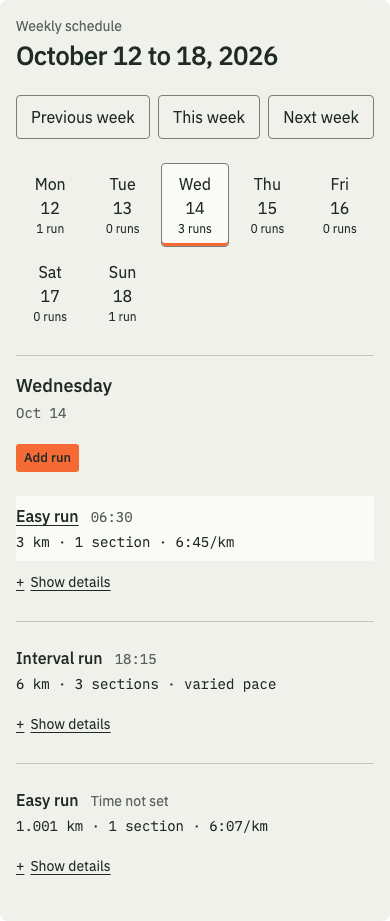
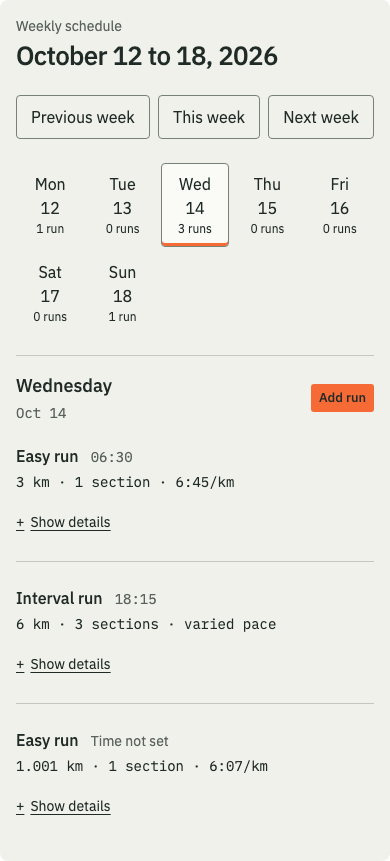
chore(design): align phone add action beside the date

diff --git a/docs/design/weekly-layout-prototype.html b/docs/design/weekly-layout-prototype.html
@@ -152,7 +152,13 @@ dialog code { overflow-wrap: anywhere; }
 .font-credits pre { white-space: pre-wrap; overflow-wrap: anywhere; }
 @container screen (max-width: 560px) {
   .specimen h1 { font-size: 26px; }
-  .day { grid-template-columns: minmax(0, 1fr); gap: 12px; padding-block: 16px; }
+  .day, .focus-layout .day { grid-template-columns: minmax(0, 1fr) auto; gap: 4px 16px; padding-block: 16px; }
+  .day-heading { display: contents; }
+  .day-heading h2 { grid-column: 1; grid-row: 1; }
+  .day-heading .date { grid-column: 1; grid-row: 2; }
+  .day-add, .day-content > [data-add] { grid-column: 2; grid-row: 1 / span 2; align-self: center; margin: 0; }
+  .day-content { grid-column: 1 / -1; grid-row: 3; margin-top: 8px; }
+  .day-content:has(> [data-add]) { display: contents; }
   .focus-layout { grid-template-columns: minmax(0, 1fr); gap: 20px; }
   .day-index { grid-template-columns: repeat(auto-fit, minmax(60px, 1fr)); gap: 4px; }
   .day-index button { display: block; text-align: center; padding: 8px 2px; }
@@ -186,7 +192,7 @@ dialog code { overflow-wrap: anywhere; }
       <li>Click or tap a run summary to open its edit pane, or focus it and press Enter. There is no separate Edit button. Keep time, run type, distance, section count, and shared or varied pace visible while details are closed.</li>
       <li>Each run opens independently with Enter, Space, or touch. Sections stay ordered, followed by separate personal and trainer notes. Native disclosure state is announced to assistive technology.</li>
       <li>Show details stays separate from opening the editor. Closing the pane returns focus to its run and keeps the week and disclosures in place. Week navigation and reload reset disclosures. No saved disclosure preference.</li>
-      <li>Add run replaces the empty-day placeholder. On a populated day, it sits below the day and date. It opens the create pane on that date. Adding a preview run updates the schedule and moves Add run below the date when the day becomes populated. A successful save shows the saved date’s week. “This week” uses Montreal’s calendar date. The pane's complete form and recovery presentations are a later design decision.</li>
+      <li>On phones, Add run sits to the right of the day/date heading on every day. On wider screens, it replaces the empty-day placeholder or sits below the date on populated days. It opens the create pane on that date. Adding a preview run updates the schedule. A successful save shows the saved date’s week. “This week” uses Montreal’s calendar date. The pane's complete form and recovery presentations are a later design decision.</li>
       <li>For the selected-day variant, select today within the current week, otherwise Monday. Changing a day keeps focus on its selector; week changes keep focus on the week control. Closing the pane keeps the selected day. Saving selects the saved run’s day so the result is visible.</li>
       <li>Put week navigation above the schedule so a busy week does not push it out of reach. Loading and failures hide old runs, keep week navigation available, and offer retry. Retry moves focus to the week heading.</li>
     </ul>

diff --git a/docs/design/weekly-layout-review.md b/docs/design/weekly-layout-review.md
@@ -22,7 +22,7 @@ Prefer the complete weekly log on phone and desktop. It exposes every day and ev
 
 Retain the approved initially collapsed, independent disclosures. Summaries show run type, optional time or an explicit time-not-set label, exact total distance, section count, and a shared target pace or varied-pace label. Arnaud selected clicking the run to open its edit pane instead of a separate Edit button. The whole run summary is a native link, reachable with Tab and Enter. Hover and focus mark it as interactive. Show details remains a separate native disclosure, outside the link, so it never opens the editor or hides editing access behind expansion. Sections and labeled notes remain inside the disclosure.
 
-Following Arnaud's next placement proposal, an empty day puts Add run in the content area instead of No runs planned. A day with one or more runs puts Add run below the day and date in the left column. There is exactly one date-scoped Add run per day. The compact orange button keeps its 28px visible height and click area at least 44px high and wide. On narrow screens the date column becomes the header above the runs, and the button follows the same content-dependent placement.
+Following Arnaud's next placement proposal, an empty day puts Add run in the content area instead of No runs planned. A day with one or more runs puts Add run below the day and date in the left column. There is exactly one date-scoped Add run per day. The compact orange button keeps its 28px visible height and click area at least 44px high and wide. On phone widths, Add run instead sits to the right of the day/date heading on every day, whether empty or populated. This uses the spare header space and keeps the button in place when the first run is added. The desktop content-dependent placement remains unchanged.
 
 Keep opened disclosures and the selected day while opening and closing the pane. Close, Cancel, and Escape return focus to the clicked run. Dirty pane values prompt before discard. A preview save in the same week refreshes the schedule and keeps disclosures. A preview save into another week shows the saved date's week and resets disclosures. Both create and edit saves select the saved run's day in the selected-day composition and focus its summary so the result is visible. A week change and reload reset disclosures; no saved disclosure preference is implied. This replaces the earlier full-page-return proposal for edit cancellation.
 
@@ -33,6 +33,8 @@ Move week controls above the schedule. Loading and errors hide the old runs whil
 The sidebar's design remains in its own decision. The 760px width option checks available space without implementing a sidebar or settling its threshold. The specimen keeps branding out of the page header, consistent with sidebar-only branding. Exact tokens and production font policy remain provisional.
 
 ## Evidence
+
+The phone placement was checked in both compositions at 320px and 390px with empty and populated days. Add run sits to the right of the day/date heading, remains in that position after creating the first run, and keeps its selected-date prefill. No horizontal overflow occurred. The phone screenshots show this revision.
 
 The create interaction passed in both layouts at 320px and 1280px. Checks covered chosen-date prefill, required blank targets preventing empty submission, exact sample measurements, an empty day becoming populated and moving its Add run button, a second run with timed-first ordering, cancel returning focus without creating a run, editing the newly added run, a changed save date selecting the correct day/week, and reload clearing local additions. No browser errors occurred. [Desktop create pane](weekly-layout-review/desktop-create-pane.png), [phone create pane](weekly-layout-review/phone-create-pane.png), and [schedule after adding a run](weekly-layout-review/after-add-run.png) capture the interaction.
 
